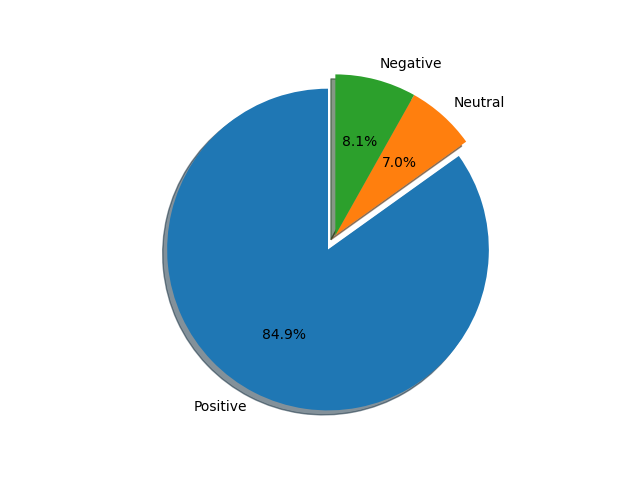
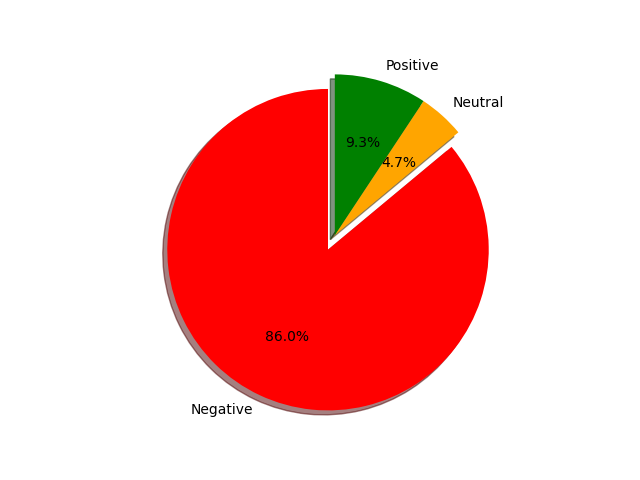
perbaikan pada download dan juga Model Knn

Changed region(s): [[0.25, 0.125, 0.7812, 0.875]]

diff --git a/templates/knn.html b/templates/knn.html
@@ -21,9 +21,9 @@
                   <input type="file" class="form-control" id="file" name="file" accept=".csv" required>
                 </div>
                 <div class="form-group">
-                  <label for="n_neighbors">Masukkan Jumlah K (1-3)</label>
-                  <input type="number" class="form-control" id="n_neighbors" name="n_neighbors" min="1" max="3" required
-                    placeholder="1-3">
+                  <label for="n_neighbors">Masukkan Jumlah K</label>
+                  <input type="number" class="form-control" id="n_neighbors" name="n_neighbors" min="1" max="9" required
+                    placeholder="Masukkan Jumlah K">
                 </div>
                 <div class="form-group">
                   <label for="split_ratio">Masukkan Split Ratio (0-1)</label>
@@ -54,63 +54,91 @@
       </div>
     </div>
 
-   
-    
-    <h1>Hasil Analisis Sentimen</h1>
-    <ul>
-      <li>Accuracy: {{ accuracy }}</li>
-      <li>Precision: {{ precision }}</li>
-      <li>Recall: {{ recall }}</li>
-      <li>F1 Score: {{ f1 }}</li>
-    </ul>
-    <table class="table">
-      <thead>
-        <tr>
-          <th>Title</th>
-          <th>Sentiment</th>
-        </tr>
-      </thead>
-      <tbody>
-        {% for result in hasil_sentimen %}
-        <tr>
-          <td>{{ result['title'] }}</td>
-          <td>
-            {% if result['sentiment'] == 'Positive' %}
-            <span class="badge bg-label-success">{{ result['sentiment'] }}</span>
-            {% elif result['sentiment'] == 'Negative' %}
-            <span class="badge bg-label-danger">{{ result['sentiment'] }}</span>
-            {% else %}
-            <span class="badge bg-label-warning">{{ result['sentiment'] }}</span>
-            {% endif %}
-          </td>
-        </tr>
-        {% endfor %}
-      </tbody>
-    </table>
-    <!-- bagi menjadi dua column untuk worldcloud dan juga pie chart-->
-    <div class="col-md-6 col-12">
-      <div class="card">
-        <div class="card-header">
-          <h5 class="card-title">Worldcloud</h5>
-        </div>
-        <div class="card-body">
-          <!-- Display the Word Cloud -->
-          <img src="{{ url_for('static', filename='image/wordcloud.png') }}" alt="Word Cloud" width="300">
-        </div>
-      </div>
+
+
+    <h1 class="text-center">Hasil Analisis Sentimen</h1>
+    {% if hasil_sentimen %}
+    <div class="table-responsive">
+      <table class="table table-bordered">
+        <thead>
+          <tr>
+            <th>Accuracy</th>
+            <th>Precision</th>
+            <th>Recall</th>
+            <th>F1 Score</th>
+          </tr>
+        </thead>
+        <tbody>
+          <tr>
+            <td>{{ accuracy }}</td>
+            <td>{{ precision }}</td>
+            <td>{{ recall }}</td>
+            <td>{{ f1 }}</td>
+          </tr>
+        </tbody>
+      </table>
     </div>
-    <div class="col-md-6 col-12">
-      <div class="card">
-        <div class="card-header">
-          <h5 class="card-title">Pie Chart</h5>
+
+    <div class="table-responsive">
+      <table class="table table-bordered">
+        <thead>
+          <tr>
+            <th>Title</th>
+            <th>Sentiment</th>
+          </tr>
+        </thead>
+        <tbody>
+          {% for result in hasil_sentimen %}
+          <tr>
+            <td>{{ result['title'] }}</td>
+            <td>
+              {% if result['sentiment'] == 'Positive' %}
+              <span class="badge bg-label-success">{{ result['sentiment'] }}</span>
+              {% elif result['sentiment'] == 'Negative' %}
+              <span class="badge bg-label-danger">{{ result['sentiment'] }}</span>
+              {% else %}
+              <span class="badge bg-label-warning">{{ result['sentiment'] }}</span>
+              {% endif %}
+            </td>
+          </tr>
+          {% endfor %}
+        </tbody>
+      </table>
+    </div>
+    <!-- bagi menjadi dua column untuk worldcloud dan juga pie chart-->
+    <div class="container">
+      <div class="row">
+        <!-- Wordcloud Card -->
+        <div class="col-md-6 col-12">
+          <div class="card">
+            <div class="card-header">
+              <h5 class="card-title">Wordcloud</h5>
+            </div>
+            <div class="card-body">
+              <!-- Display the Word Cloud -->
+              <img src="{{ url_for('static', filename='image/wordcloud.png') }}" alt="Word Cloud" width="100%">
+            </div>
+          </div>
         </div>
-        <div class="card-body">
-          <!-- Display the Pie Chart -->
-            <img src="{{ url_for('static', filename='image/pie_chart.png') }}" alt="Pie Chart" width="300">
+
+        <!-- Pie Chart Card -->
+        <div class="col-md-6 col-12">
+          <div class="card">
+            <div class="card-header">
+              <h5 class="card-title">Pie Chart</h5>
+            </div>
+            <div class="card-body">
+              <!-- Display the Pie Chart -->
+              <img src="{{ url_for('static', filename='image/pie_chart.png') }}" alt="Pie Chart" width="100%">
+            </div>
+          </div>
         </div>
       </div>
     </div>
 
+    {% else %}
+    <p class="text-center">Belum Ada Hasil.</p>
+    {% endif %}
   </div>
 </div>
 {% endblock %}

diff --git a/templates/scraping.html b/templates/scraping.html
@@ -50,7 +50,7 @@
 
                         <div class="mb-3">
                             <label for="linkInput" class="form-label">Jumlah Scraping</label>
-                            <input type="number" class="form-control" id="jumlah" value="10" name="Jumlah">
+                            <input type="number" class="form-control" id="jumlah" value="100" name="Jumlah">
                         </div>
 
                         <button type="submit" class="btn btn-primary">Submit</button>
@@ -69,7 +69,7 @@
                     {% if data %}
                     <div class="card">
                         <div class="card-body">
-                            <form action="{{ url_for('download') }}" method="post">
+                            <form action="{{ url_for('download') }}" method="POST">
                                 <!-- Tambahkan elemen formulir yang diperlukan di sini -->
                                 <button type="submit" class="btn btn-danger mb-3"><i class="bx bx-download"></i> Download</button>
                             </form>

diff --git a/app.py b/app.py
@@ -10,10 +10,13 @@ from sklearn.neighbors import KNeighborsClassifier
 from sklearn.metrics import accuracy_score, precision_score, recall_score, f1_score, confusion_matrix
 
 from wordcloud import WordCloud
+import matplotlib
+matplotlib.use('Agg')
 import matplotlib.pyplot as plt
 
 app = Flask(__name__)
 global scraped_data
+global hasil_processing
 scraped_data = []
 hasil_processing = []
 vectorizer = TfidfVectorizer()
@@ -25,6 +28,7 @@ def index():
 
 @app.route('/submit', methods=['POST'])
 def submit_form():
+    global scraped_data
     source = request.form.get('source')
     kata_kunci = request.form.get('Kata Kunci')
     jumlah = int(request.form.get('Jumlah', 10))  # Nilai default adalah 10 jika tidak ada input
@@ -38,15 +42,19 @@ def submit_form():
     elif source == 'kompas':
         scraped_data  = scrape_kompas(kata_kunci, jumlah)
 
-    return render_template('scraping.html', data=scraped_data )
+    return render_template('scraping.html', data=scraped_data)
 
 @app.route("/scraping")
 def route_scraping():
+    global scraped_data  # Use the global keyword to refer to the global variable
     return render_template('scraping.html', data=scraped_data)
-
 
 @app.route('/download', methods=['POST'])
 def download():
+    global scraped_data
+    if not scraped_data:
+        return "Error: No scraped data available."
+
     csv_data = generate_csv(scraped_data)
     response = Response(
         csv_data,
@@ -58,6 +66,7 @@ def download():
 
 @app.route("/processing")
 def processing():
+    global hasil_processing
     return render_template('processingData.html', data=hasil_processing)
 
 @app.route('/process', methods=['POST'])
@@ -81,12 +90,12 @@ def process():
 
 @app.route('/download_processing', methods=['POST'])
 def download_processing():
+    global hasil_processing
     # Generate CSV data
-    csv_data = generate_csv_processing(hasil_processing)
+    csv_data_processing = generate_csv_processing(hasil_processing)
 
-    # Create a response with the CSV data
     response = Response(
-        csv_data,
+        csv_data_processing,
         content_type='text/csv',
         headers={'Content-Disposition': 'attachment; filename=Hasil_Processing.csv'}
     )
@@ -153,7 +162,7 @@ def hasil_sentimen():
     # Create Word Cloud
     all_text = ' '.join(df_labeled['text_clean'])
     wordcloud = WordCloud(width=800, height=400, background_color='white').generate(all_text)
-    plt.figure(figsize=(10, 5))
+    plt.figure(figsize=(18, 10))
     plt.imshow(wordcloud, interpolation='bilinear')
     plt.axis('off')
 
@@ -167,12 +176,22 @@ def hasil_sentimen():
     plt.close()
 
     # Create Pie Chart
-    labels = ['Positive', 'Neutral', 'Negative']
-    sizes = [cm[0, 0], cm[1, 1], cm[2, 2]]
+    labels = ['Negative', 'Neutral', 'Positive']
+
+    # Determine the number of classes in the confusion matrix
+    num_classes = cm.shape[0]
+
+    # Set sizes based on the number of classes
+    sizes = [cm[i, i] if i < num_classes else 0 for i in range(len(labels))]
+
     explode = (0.1, 0, 0)  # explode the 1st slice (Positive)
+
+    # Set custom colors for each sentiment class
+    colors = ['red', 'orange', 'green']
+
     fig1, ax1 = plt.subplots()
-    ax1.pie(sizes, explode=explode, labels=labels, autopct='%1.1f%%', shadow=True, startangle=90)
-    ax1.axis('equal')  # Equal aspect ratio ensures that pie is drawn as a circle.
+    ax1.pie(sizes, explode=explode, labels=labels, autopct='%1.1f%%', shadow=True, startangle=90, colors=colors)
+    ax1.axis('equal')  # Equal aspect ratio ensures that the pie chart is drawn as a circle.
 
     # Ensure the 'static/image' directory exists
     image_dir = 'static/image'
@@ -181,10 +200,12 @@ def hasil_sentimen():
     # Save the Pie Chart image
     pie_chart_path = os.path.join(image_dir, 'pie_chart.png')
     plt.savefig(pie_chart_path)
-    plt.close()
+    plt.close('all')
 
     return render_template('knn.html', hasil_sentimen=hasil_sentimen, confusion_matrix=cm,
-                           accuracy=accuracy, precision=precision, recall=recall, f1=f1, wordcloud_path=wordcloud_path, pie_chart_path=pie_chart_path)
+                        accuracy=accuracy, precision=precision, recall=recall, f1=f1, wordcloud_path=wordcloud_path, pie_chart_path=pie_chart_path)
+
+
 
 @app.route('/svm')
 def svm():
@@ -195,5 +216,6 @@ def svm():
 def hasil():
     return render_template('hasil.html')
 
-if __name__ == "__main__":
-    app.run(debug=True)
+if __name__ == '__main__':
+    app.run(debug=True, use_reloader=False)
+

diff --git a/utils.py b/utils.py
@@ -197,9 +197,9 @@ def scrape_tempo(katakunci, jumlah):
 
     return hasil_scraping[:jumlah]
 
-def generate_csv(data):
+def generate_csv(scraped_data):
     csv_string = StringIO()
-    if data:
+    if scraped_data:
         # Create a CSV writer object
         csv_writer = csv.writer(csv_string)
 
@@ -208,7 +208,7 @@ def generate_csv(data):
         csv_writer.writerow(header)
 
         # Write data rows
-        for item in data:
+        for item in scraped_data:
             csv_writer.writerow([item['title'], item['date'], item['link'], item['content']])
 
     csv_content = csv_string.getvalue()
@@ -232,7 +232,6 @@ def generate_csv_processing(data):
             csv_writer.writerow([item['title'], item['date'], item['link'], item['content'], item['text_tokenize'], item['text_clean'], item['label'], item['score']])
 
     csv_content_processing = csv_string.getvalue()
-    # Close the StringIO object
     csv_string.close()
 
     return csv_content_processing
@@ -256,12 +255,12 @@ def preprocessing(text):
 def clean_text(text):
     if isinstance(text, str):  # Check if the input is a string
         text = text.lower()
-        text = re.sub('\[.*?\]', '', text)
-        text = re.sub('[%s]' % re.escape(string.punctuation), '', text)
-        text = re.sub('\w*\d\w*', '', text)
-        text = re.sub('[‘’“”…]', '', text)
-        text = re.sub('\n', ' ', text)
-        return text 
+        text = re.sub(r'\[.*?\]', '', text)  # Use raw string literal
+        text = re.sub(r'[%s]' % re.escape(string.punctuation), '', text)
+        text = re.sub(r'\w*\d\w*', '', text)
+        text = re.sub(r'[‘’“”…]', '', text)  # Use raw string literal
+        text = re.sub(r'\n', ' ', text)
+        return text
     else:
         return str(text)
 
